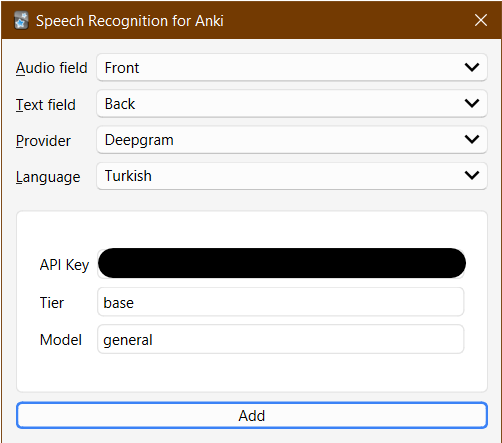
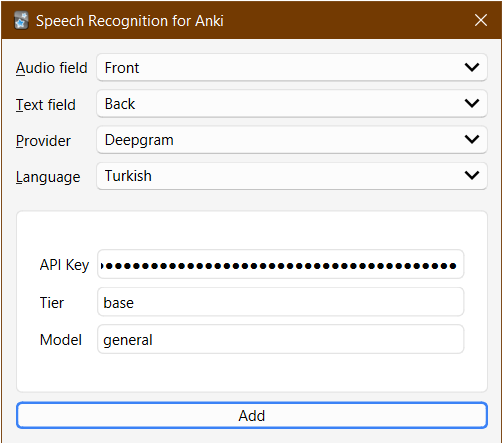
Hide API keys

Changed region(s): [[0.1793, 0.5576, 0.9263, 0.6456]]

diff --git a/src/gui/provider_widgets/deepgram.py b/src/gui/provider_widgets/deepgram.py
@@ -17,6 +17,7 @@ class DeepgramWidget(ProviderWidget[Deepgram]):
         self.setLayout(layout)
 
         self.api_key = QLineEdit(self)
+        self.api_key.setEchoMode(QLineEdit.EchoMode.Password)
         self.api_key.setText(self.provider.config.api_key)
         qconnect(self.api_key.textChanged, self.on_api_changed)
         layout.addRow("API Key", self.api_key)

diff --git a/src/gui/provider_widgets/whisper.py b/src/gui/provider_widgets/whisper.py
@@ -16,6 +16,7 @@ class WhisperWidget(ProviderWidget[Whisper]):
         self.setLayout(layout)
 
         self.api_key = QLineEdit(self)
+        self.api_key.setEchoMode(QLineEdit.EchoMode.Password)
         self.api_key.setText(self.provider.config.api_key)
         qconnect(self.api_key.textChanged, self.on_api_changed)
         layout.addRow("API Key", self.api_key)
